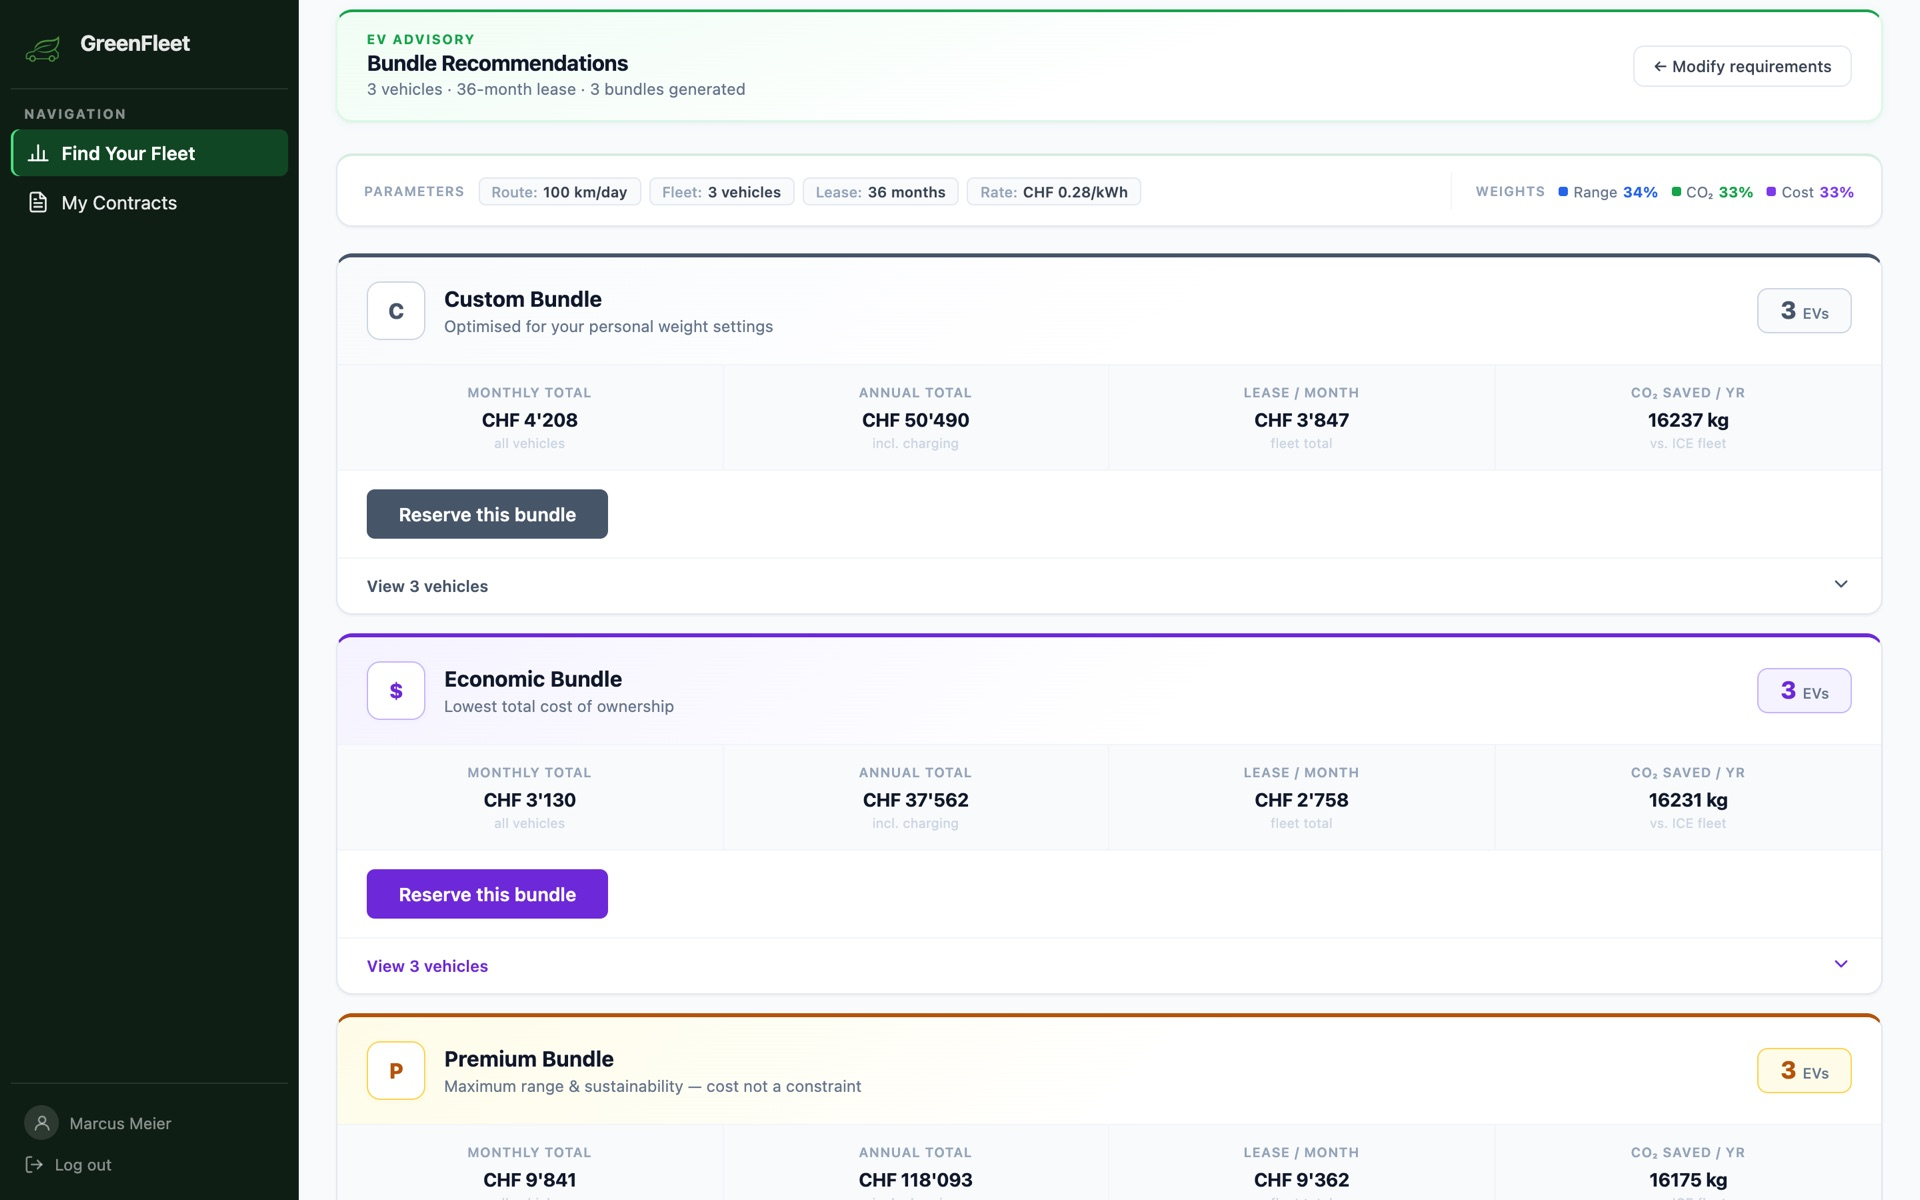
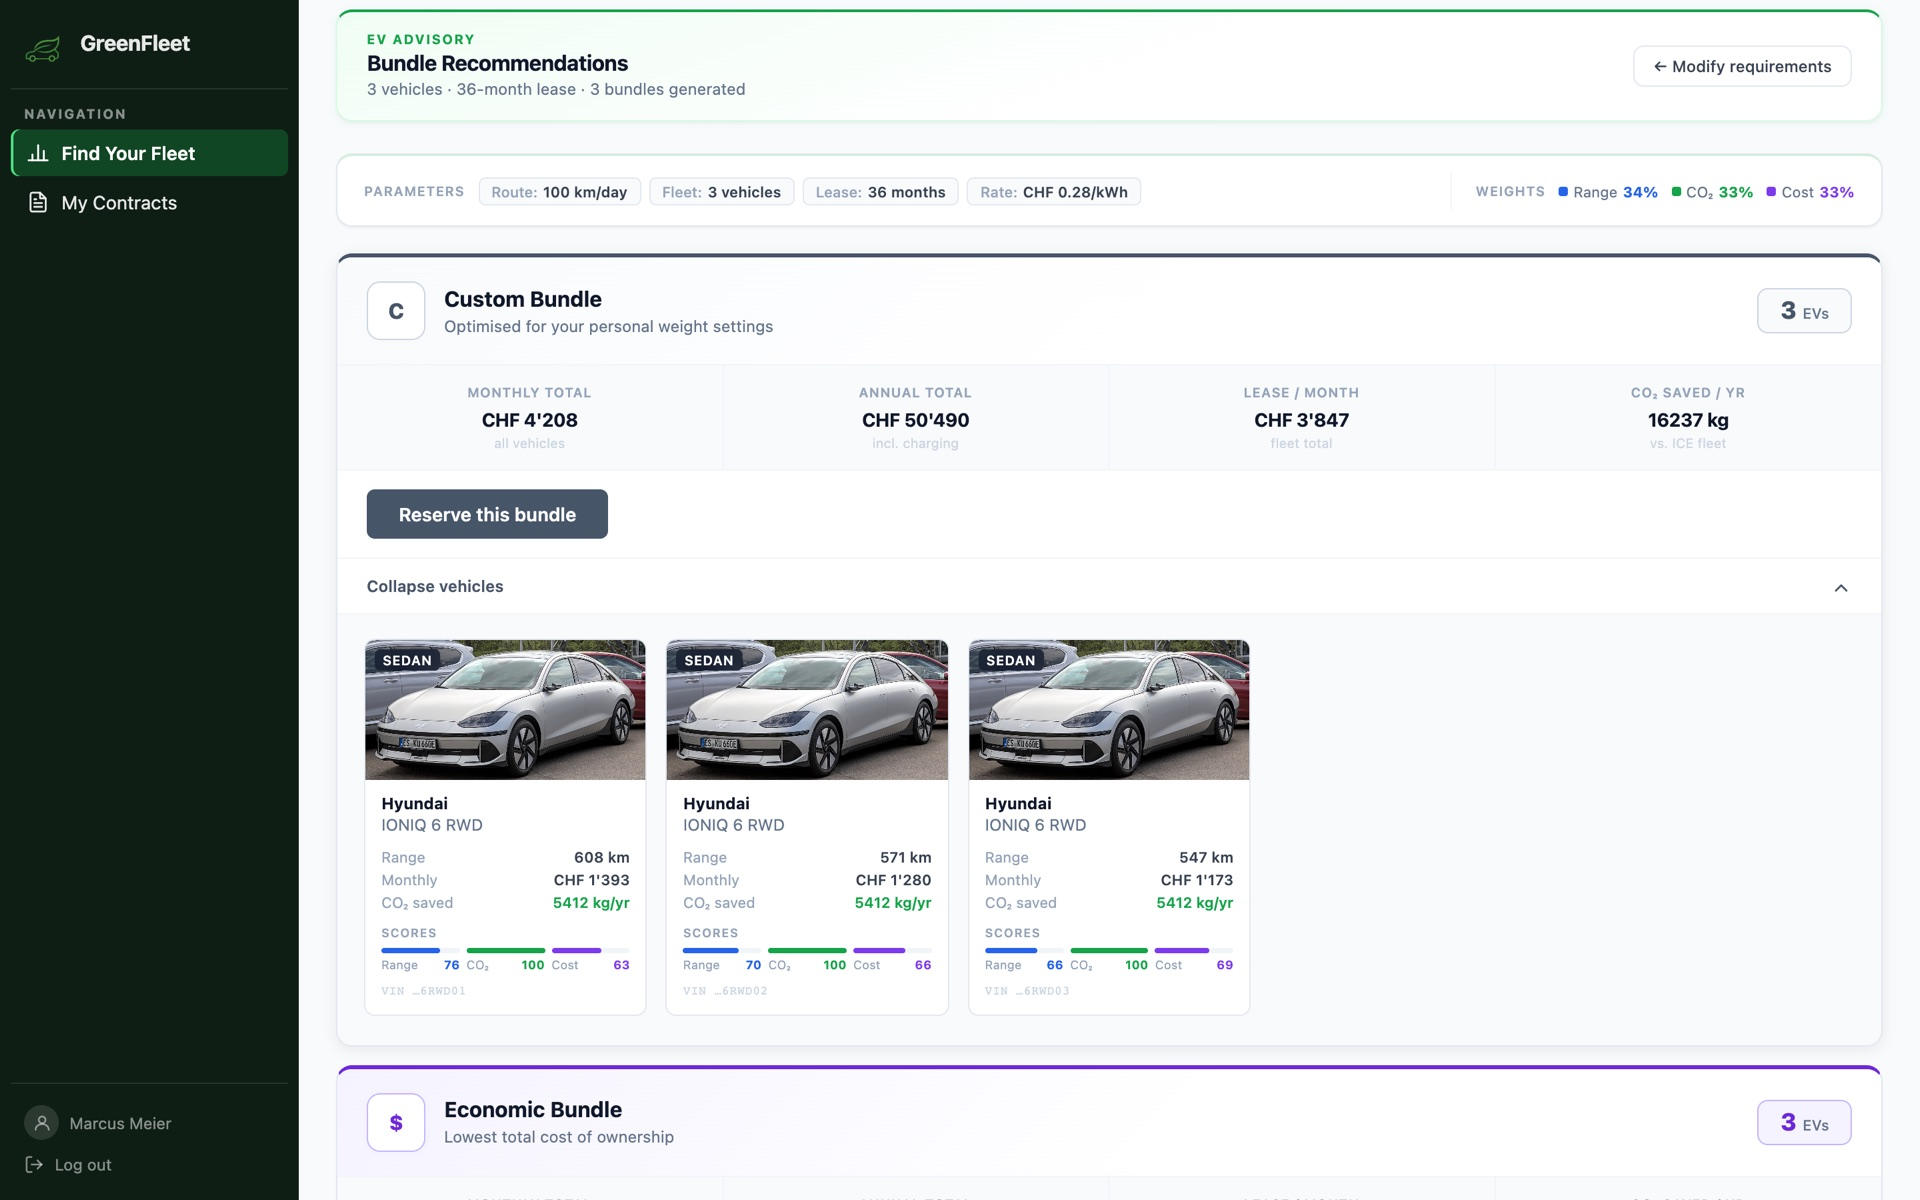
docs: show real vehicle photos in screenshots

diff --git a/docs/image-credits.md b/docs/image-credits.md
@@ -1,0 +1,30 @@
+# Image credits
+
+The vehicle photos in the screenshots come from [Wikimedia Commons](https://commons.wikimedia.org/). In the running application they are loaded from Unsplash. The photos are used unchanged under the licenses below.
+
+| Vehicle | File | Author | License |
+|---|---|---|---|
+| Audi Q4 e-tron | [Audi Q4 Sportback e-tron IAA 2021 1X7A0159.jpg](https://commons.wikimedia.org/wiki/File:Audi_Q4_Sportback_e-tron_IAA_2021_1X7A0159.jpg) | Alexander Migl | CC BY-SA 4.0 |
+| Audi e-tron 55 | [Audi e-tron 55 quattro IAA 2019 JM 0496.jpg](https://commons.wikimedia.org/wiki/File:Audi_e-tron_55_quattro_IAA_2019_JM_0496.jpg) | Johannes Maximilian | CC BY-SA 4.0 |
+| BMW i4 | [BMW i4 IAA 2021 1X7A0307.jpg](https://commons.wikimedia.org/wiki/File:BMW_i4_IAA_2021_1X7A0307.jpg) | Alexander Migl | CC BY-SA 4.0 |
+| BMW iX xDrive50 | [BMW I20 iX xDrive50 Sport Black Sapphire Metallic (24).jpg](https://commons.wikimedia.org/wiki/File:BMW_I20_iX_xDrive50_Sport_Black_Sapphire_Metallic_(24).jpg) | Damian B Oh | CC BY-SA 4.0 |
+| BMW iX3 | [BMW iX3 NA5 IAA 2025 DSC 1684.jpg](https://commons.wikimedia.org/wiki/File:BMW_iX3_NA5_IAA_2025_DSC_1684.jpg) | Alexander-93 | CC BY-SA 4.0 |
+| Hyundai IONIQ 5 | [Hyundai Ioniq 5 IAA 2021 1X7A0189.jpg](https://commons.wikimedia.org/wiki/File:Hyundai_Ioniq_5_IAA_2021_1X7A0189.jpg) | Alexander Migl | CC BY-SA 4.0 |
+| Hyundai IONIQ 6 | [Hyundai Ioniq 6 1X7A7258.jpg](https://commons.wikimedia.org/wiki/File:Hyundai_Ioniq_6_1X7A7258.jpg) | Alexander-93 | CC BY-SA 4.0 |
+| Kia EV6 | [Kia EV6 GT IMG 8171.jpg](https://commons.wikimedia.org/wiki/File:Kia_EV6_GT_IMG_8171.jpg) | Alexander-93 | CC BY-SA 4.0 |
+| Mercedes EQC | [Mercedes EQC, Rendsburg (P1100578).jpg](https://commons.wikimedia.org/wiki/File:Mercedes_EQC,_Rendsburg_(P1100578).jpg) | Matti Blume | CC BY-SA 4.0 |
+| Mercedes EQS | [Mercedes-Benz Vision EQS at IAA 2019 IMG 0753.jpg](https://commons.wikimedia.org/wiki/File:Mercedes-Benz_Vision_EQS_at_IAA_2019_IMG_0753.jpg) | Alexander Migl | CC BY-SA 4.0 |
+| Polestar 2 | [Polestar 2, GIMS 2019, Le Grand-Saconnex (GIMS0552).jpg](https://commons.wikimedia.org/wiki/File:Polestar_2,_GIMS_2019,_Le_Grand-Saconnex_(GIMS0552).jpg) | Matti Blume | CC BY-SA 4.0 |
+| Porsche Taycan | [Porsche Taycan Sport Turismo GTS 1X7A0416.jpg](https://commons.wikimedia.org/wiki/File:Porsche_Taycan_Sport_Turismo_GTS_1X7A0416.jpg) | Alexander Migl | CC BY-SA 4.0 |
+| Renault Zoe | [2018 Renault ZOE.jpg](https://commons.wikimedia.org/wiki/File:2018_Renault_ZOE.jpg) | Vauxford | CC BY-SA 4.0 |
+| Tesla Model 3 | [Tesla Model 3 (2023) Autofrühling Ulm IMG 9282.jpg](https://commons.wikimedia.org/wiki/File:Tesla_Model_3_(2023)_Autofr%C3%BChling_Ulm_IMG_9282.jpg) | Alexander-93 | CC BY-SA 4.0 |
+| Tesla Model S | [20180630 Tesla Model S 70D 2015 midnight blue left front.jpg](https://commons.wikimedia.org/wiki/File:20180630_Tesla_Model_S_70D_2015_midnight_blue_left_front.jpg) | Granada | CC BY-SA 4.0 |
+| Tesla Model X | [Tesla Model X 100D 1X7A6736.jpg](https://commons.wikimedia.org/wiki/File:Tesla_Model_X_100D_1X7A6736.jpg) | Alexander Migl | CC BY-SA 4.0 |
+| Tesla Model Y | [Tesla Model Y 1X7A6211.jpg](https://commons.wikimedia.org/wiki/File:Tesla_Model_Y_1X7A6211.jpg) | Alexander Migl | CC BY-SA 4.0 |
+| Volkswagen ID.3 | [Volkswagen ID.3 Neo IMG 7255.jpg](https://commons.wikimedia.org/wiki/File:Volkswagen_ID.3_Neo_IMG_7255.jpg) | Alexander Migl | CC BY-SA 4.0 |
+| Volkswagen ID.4 | [Volkswagen ID.5 GTX 1X7A0318.jpg](https://commons.wikimedia.org/wiki/File:Volkswagen_ID.5_GTX_1X7A0318.jpg) | Alexander Migl | CC BY-SA 4.0 |
+| Volvo XC40 | [Volvo XC40 Recharge Facelift IMG 8127.jpg](https://commons.wikimedia.org/wiki/File:Volvo_XC40_Recharge_Facelift_IMG_8127.jpg) | Alexander-93 | CC BY-SA 4.0 |
+
+---
+
+[← Back to the README](../README.md) · [Documentation index](README.md)

diff --git a/README.md b/README.md
@@ -4,7 +4,7 @@
 
 **An EV fleet leasing platform: companies describe their fleet needs, get scored bundles of electric vehicles and lease them online.**
 
-![Bundle recommendations: three EV bundles scored by range, CO₂ and cost](docs/images/bundle-recommendations.jpg)
+![Bundle recommendation with the vehicles of a recommended EV bundle](docs/images/bundle-recommendations.jpg)
 
 ## Contents
 
@@ -42,6 +42,8 @@ The project followed a domain-driven process: product vision, domain stories, pe
 | ![Fleet requirements](docs/images/fleet-requirements.jpg) | ![Lease agreement](docs/images/lease-agreement.jpg) |
 | **Vehicle catalogue (employee view)** | **Fleet contracts (employee view)** |
 | ![Vehicle catalogue](docs/images/vehicle-catalogue.jpg) | ![Fleet contracts](docs/images/fleet-contracts.jpg) |
+
+<sub>Vehicle photos: Wikimedia Commons, see [image credits](docs/image-credits.md).</sub>
 
 ## My contribution
 
